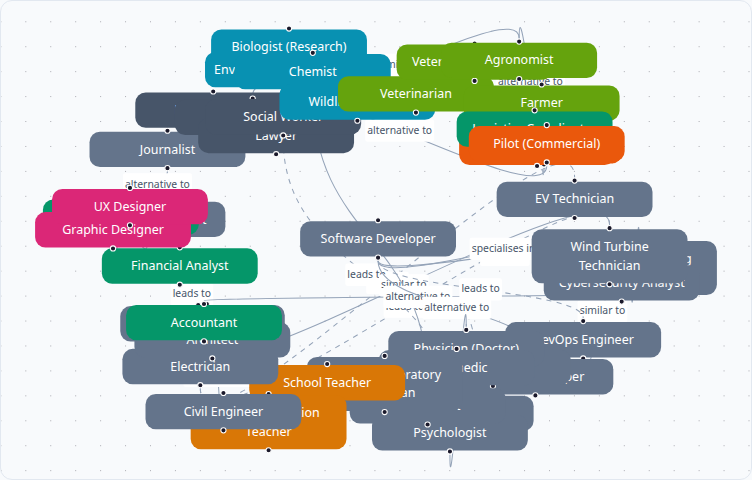
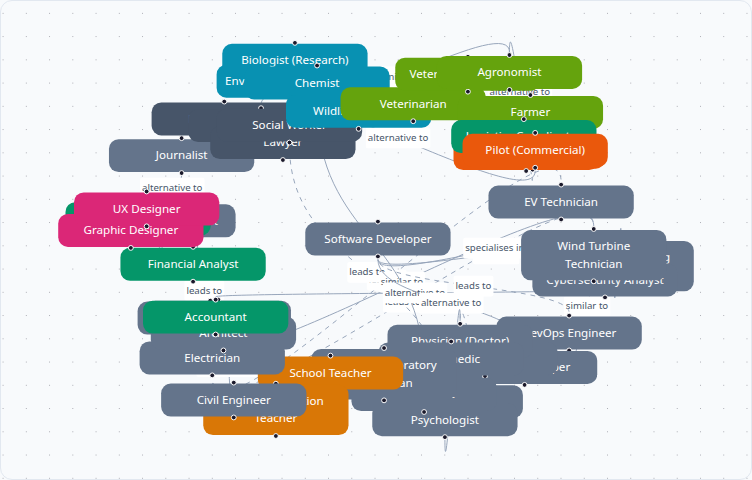
polish(captures): fit the relation graph, drop unused atoms
- RelationGraph: fitViewOptions padding 0.18 — node labels no longer clip
  at the canvas edge (the hub's job-catalog atom captures whole now)
- job-catalog atom re-captured with the padded graph
- drop unused captures and their scenes: assistant-chat panel (superseded
  by the proposal-card atom), profile-matching scores row (demo renders
  empty AI/YOU dashes — not ad material), job-chips hook

Changed region(s): [[0.0306, 0.0625, 0.9787, 0.9688]]

diff --git a/frontend/src/features/catalog/components/RankedJobCard.tsx b/frontend/src/features/catalog/components/RankedJobCard.tsx
@@ -76,7 +76,7 @@ export function RankedJobCard({
         </div>
       }
     >
-      <div className="flex shrink-0 flex-col items-center gap-0.5 pt-0.5" data-capture="fit-bubble">
+      <div className="flex shrink-0 flex-col items-center gap-0.5 pt-0.5">
         <ScoreBubble score={item.score} size={52} />
         <span className="text-[9px] font-semibold uppercase tracking-[0.07em] text-[var(--as-muted-fg)]">
           {t("rankings.match")}

diff --git a/frontend/src/features/catalog/components/RelationGraph.tsx b/frontend/src/features/catalog/components/RelationGraph.tsx
@@ -56,6 +56,7 @@ export function RelationGraph({ graph, onNodeClick }: { graph: JobGraph; onNodeC
         nodes={nodes}
         edges={edges}
         fitView
+        fitViewOptions={{ padding: 0.18 }}
         minZoom={0.2}
         onNodeClick={(_, node) => onNodeClick?.(node.id)}
         proOptions={{ hideAttribution: true }}

diff --git a/frontend/src/features/catalog/components/JobCard.tsx b/frontend/src/features/catalog/components/JobCard.tsx
@@ -95,7 +95,7 @@ export function JobCard({
               : []
           }
         />
-        <div className="mt-1.5 flex flex-wrap items-center gap-1" data-capture="job-chips">
+        <div className="mt-1.5 flex flex-wrap items-center gap-1">
           <ChipRow
             testId="job-interests"
             max={3}
